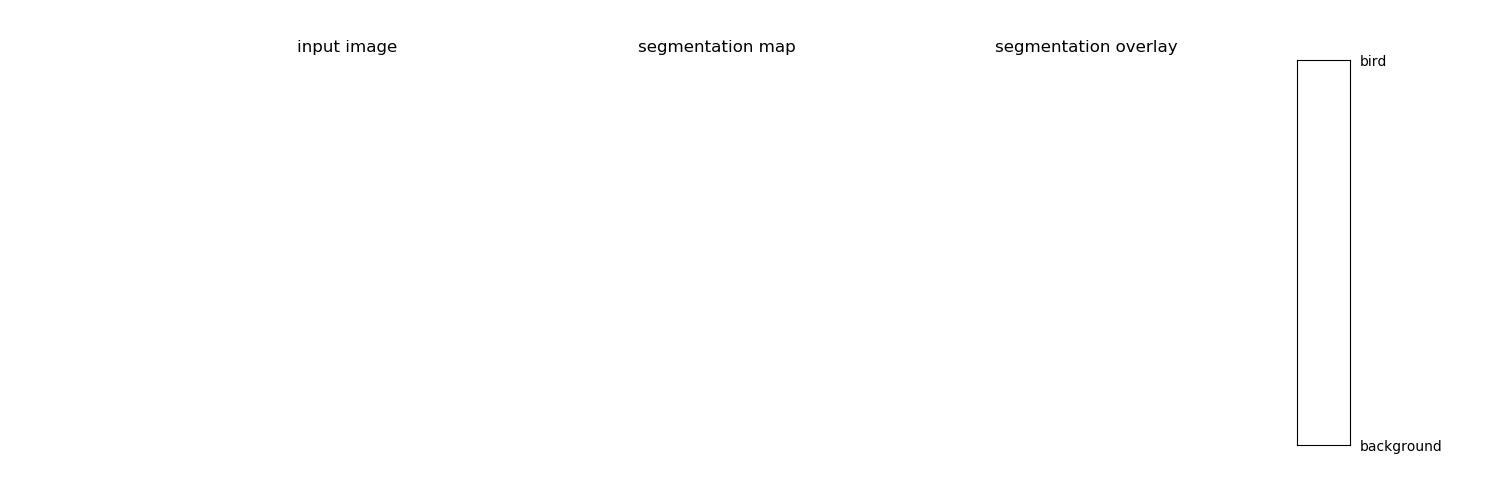
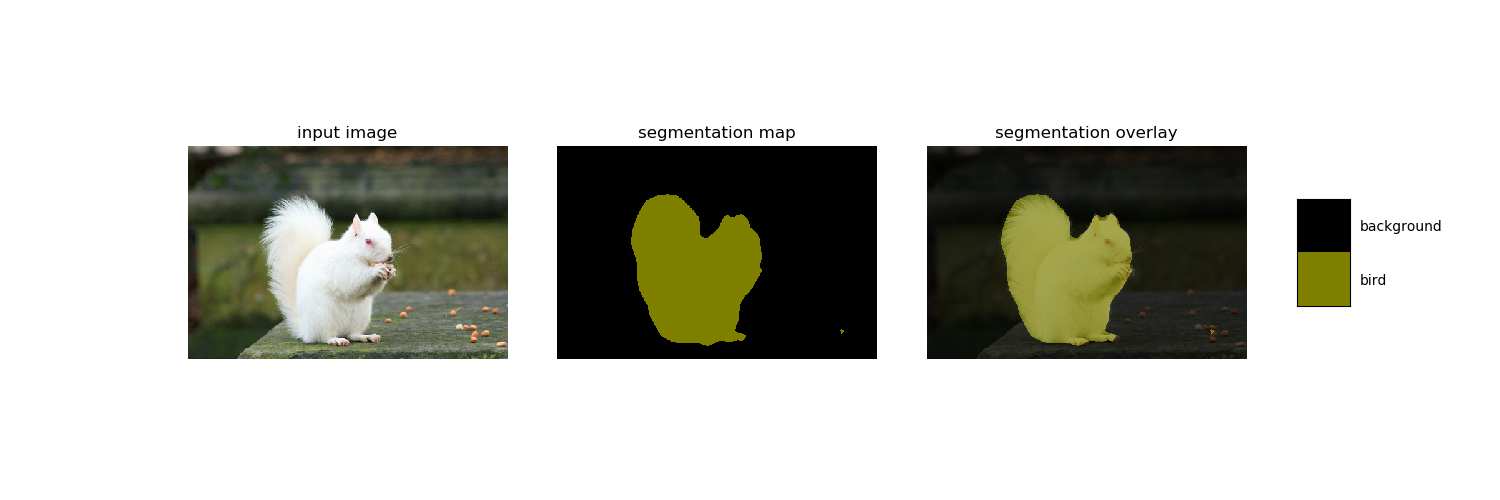
second commit

diff --git a/code/model_master/research/deeplab/run_model.py b/code/model_master/research/deeplab/run_model.py
@@ -117,32 +117,33 @@ def vis_segmentation(image, seg_map):
   grid_spec = gridspec.GridSpec(1, 4, width_ratios=[6, 6, 6, 1])
 
   plt.subplot(grid_spec[0])
-  #plt.imshow(image)
+  plt.imshow(image)
   plt.axis('off')
   plt.title('input image')
 
   plt.subplot(grid_spec[1])
   seg_image = label_to_color_image(seg_map).astype(np.uint8)
-  #plt.imshow(seg_image)
+  plt.imshow(seg_image)
   plt.axis('off')
   plt.title('segmentation map')
 
   plt.subplot(grid_spec[2])
-  #plt.imshow(image)
-  #plt.imshow(seg_image, alpha=0.7)
+  plt.imshow(image)
+  plt.imshow(seg_image, alpha=0.7)
   plt.axis('off')
   plt.title('segmentation overlay')
 
   unique_labels = np.unique(seg_map)
   ax = plt.subplot(grid_spec[3])
-  #plt.imshow(
-    #  FULL_COLOR_MAP[unique_labels].astype(np.uint8), interpolation='nearest')
+  plt.imshow(
+      FULL_COLOR_MAP[unique_labels].astype(np.uint8), interpolation='nearest')
   ax.yaxis.tick_right()
   plt.yticks(range(len(unique_labels)), LABEL_NAMES[unique_labels])
   plt.xticks([], [])
   ax.tick_params(width=0.0)
   plt.grid('off')
   plt.savefig("code/static/output.png")
+  plt.close()
   print("saving completed")
 
 
